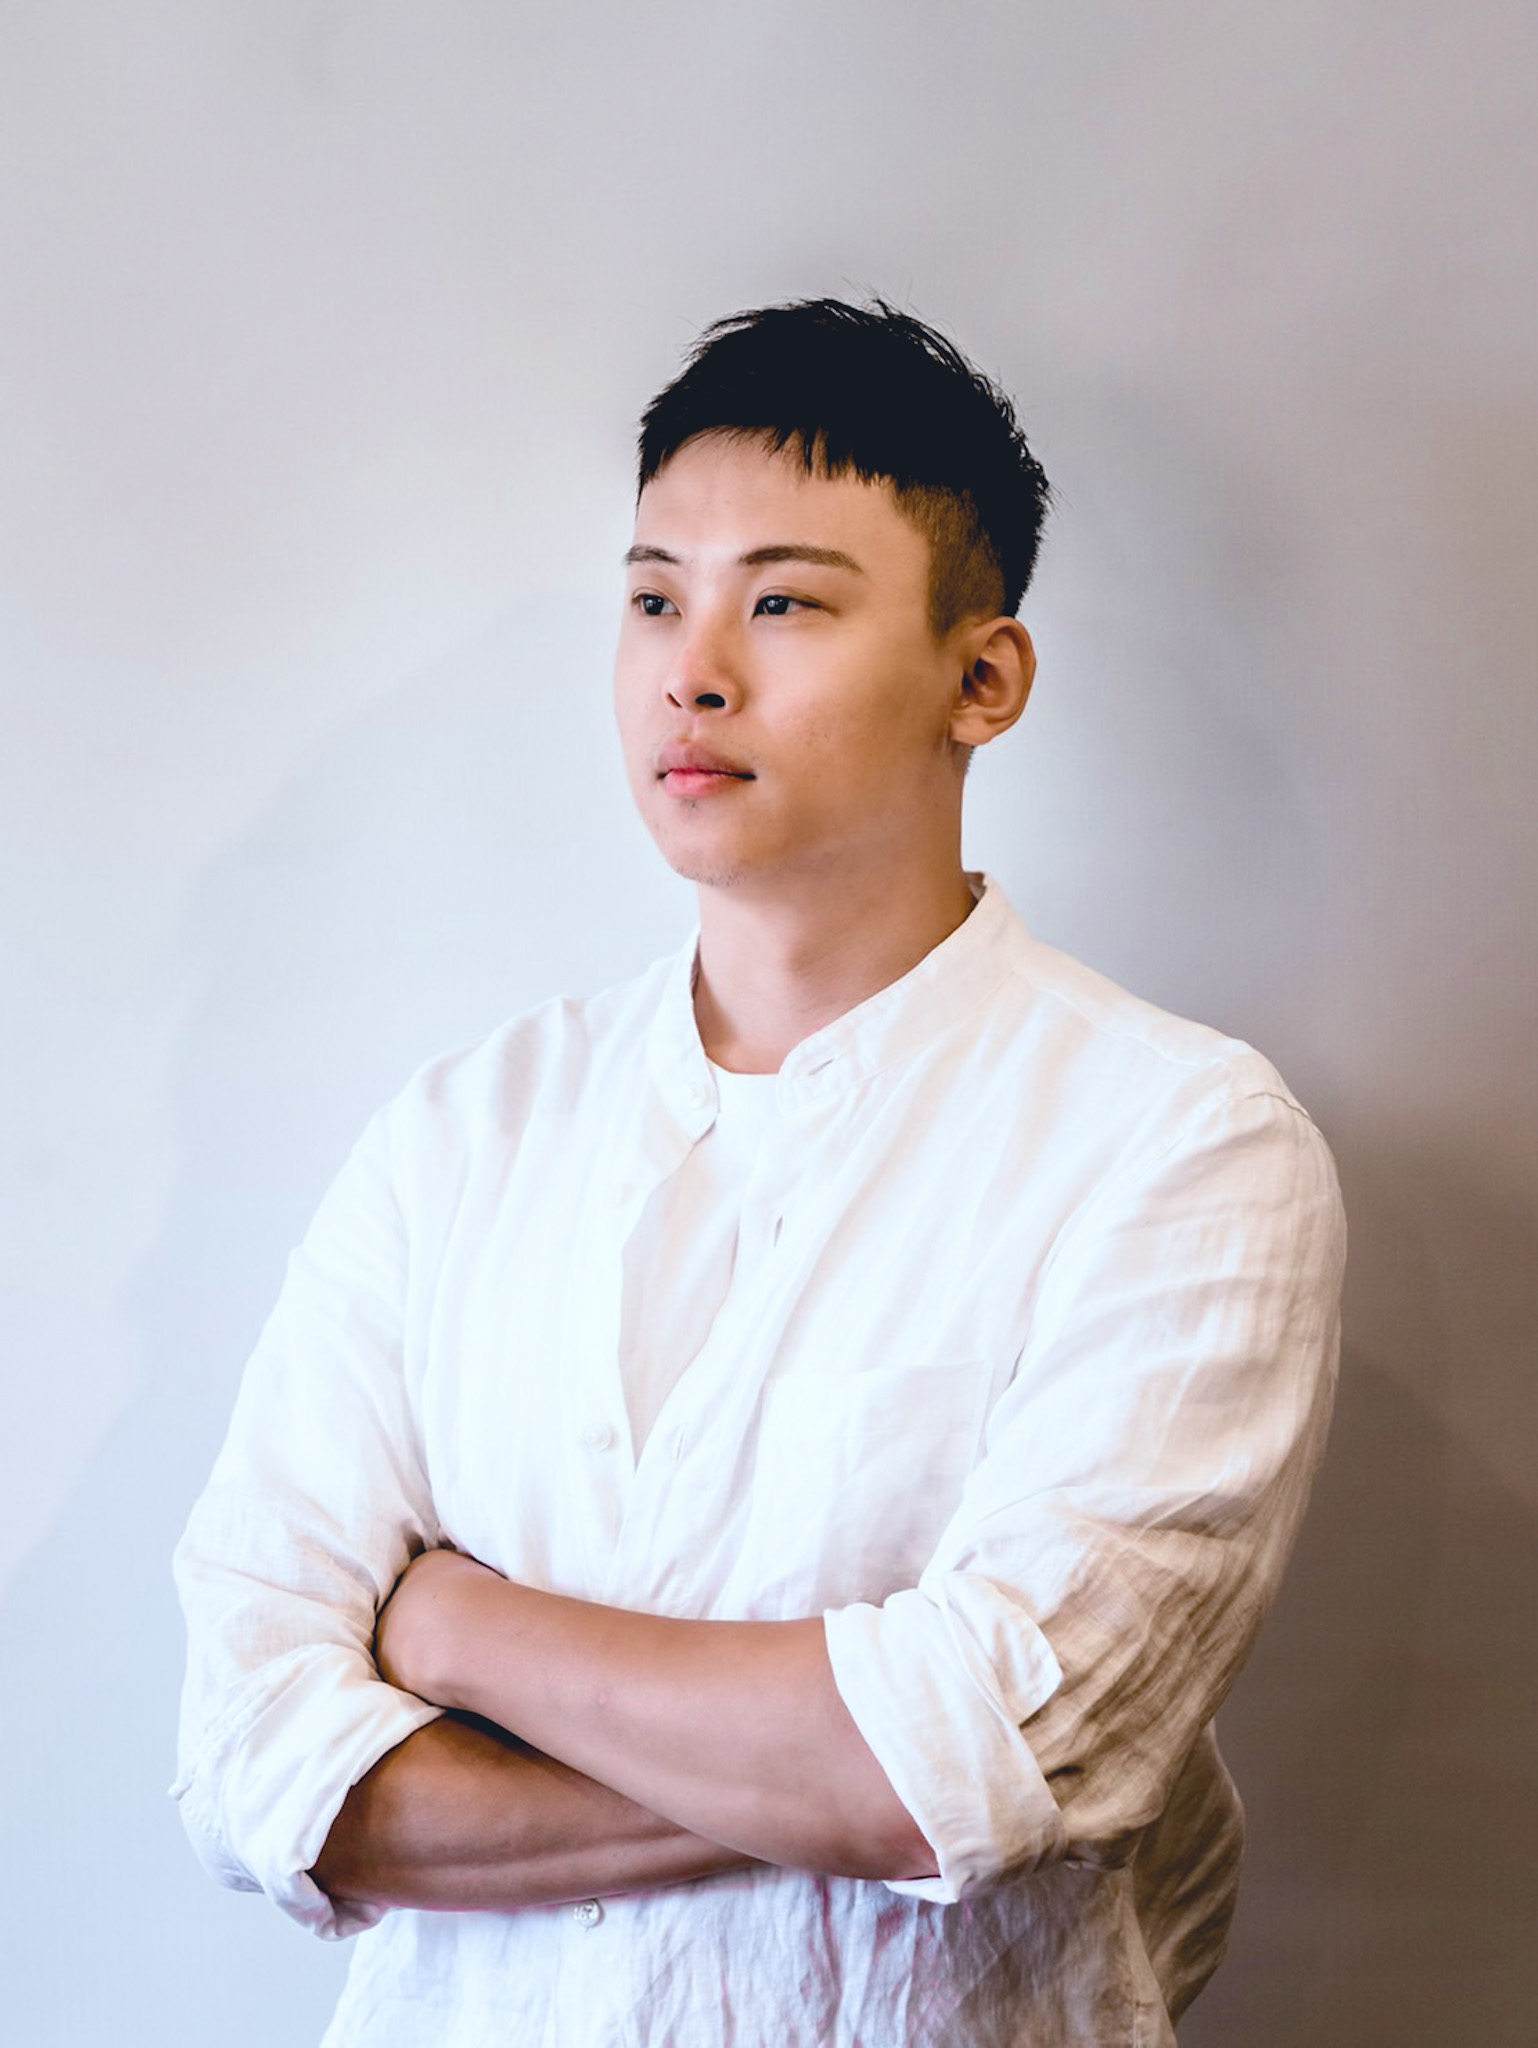
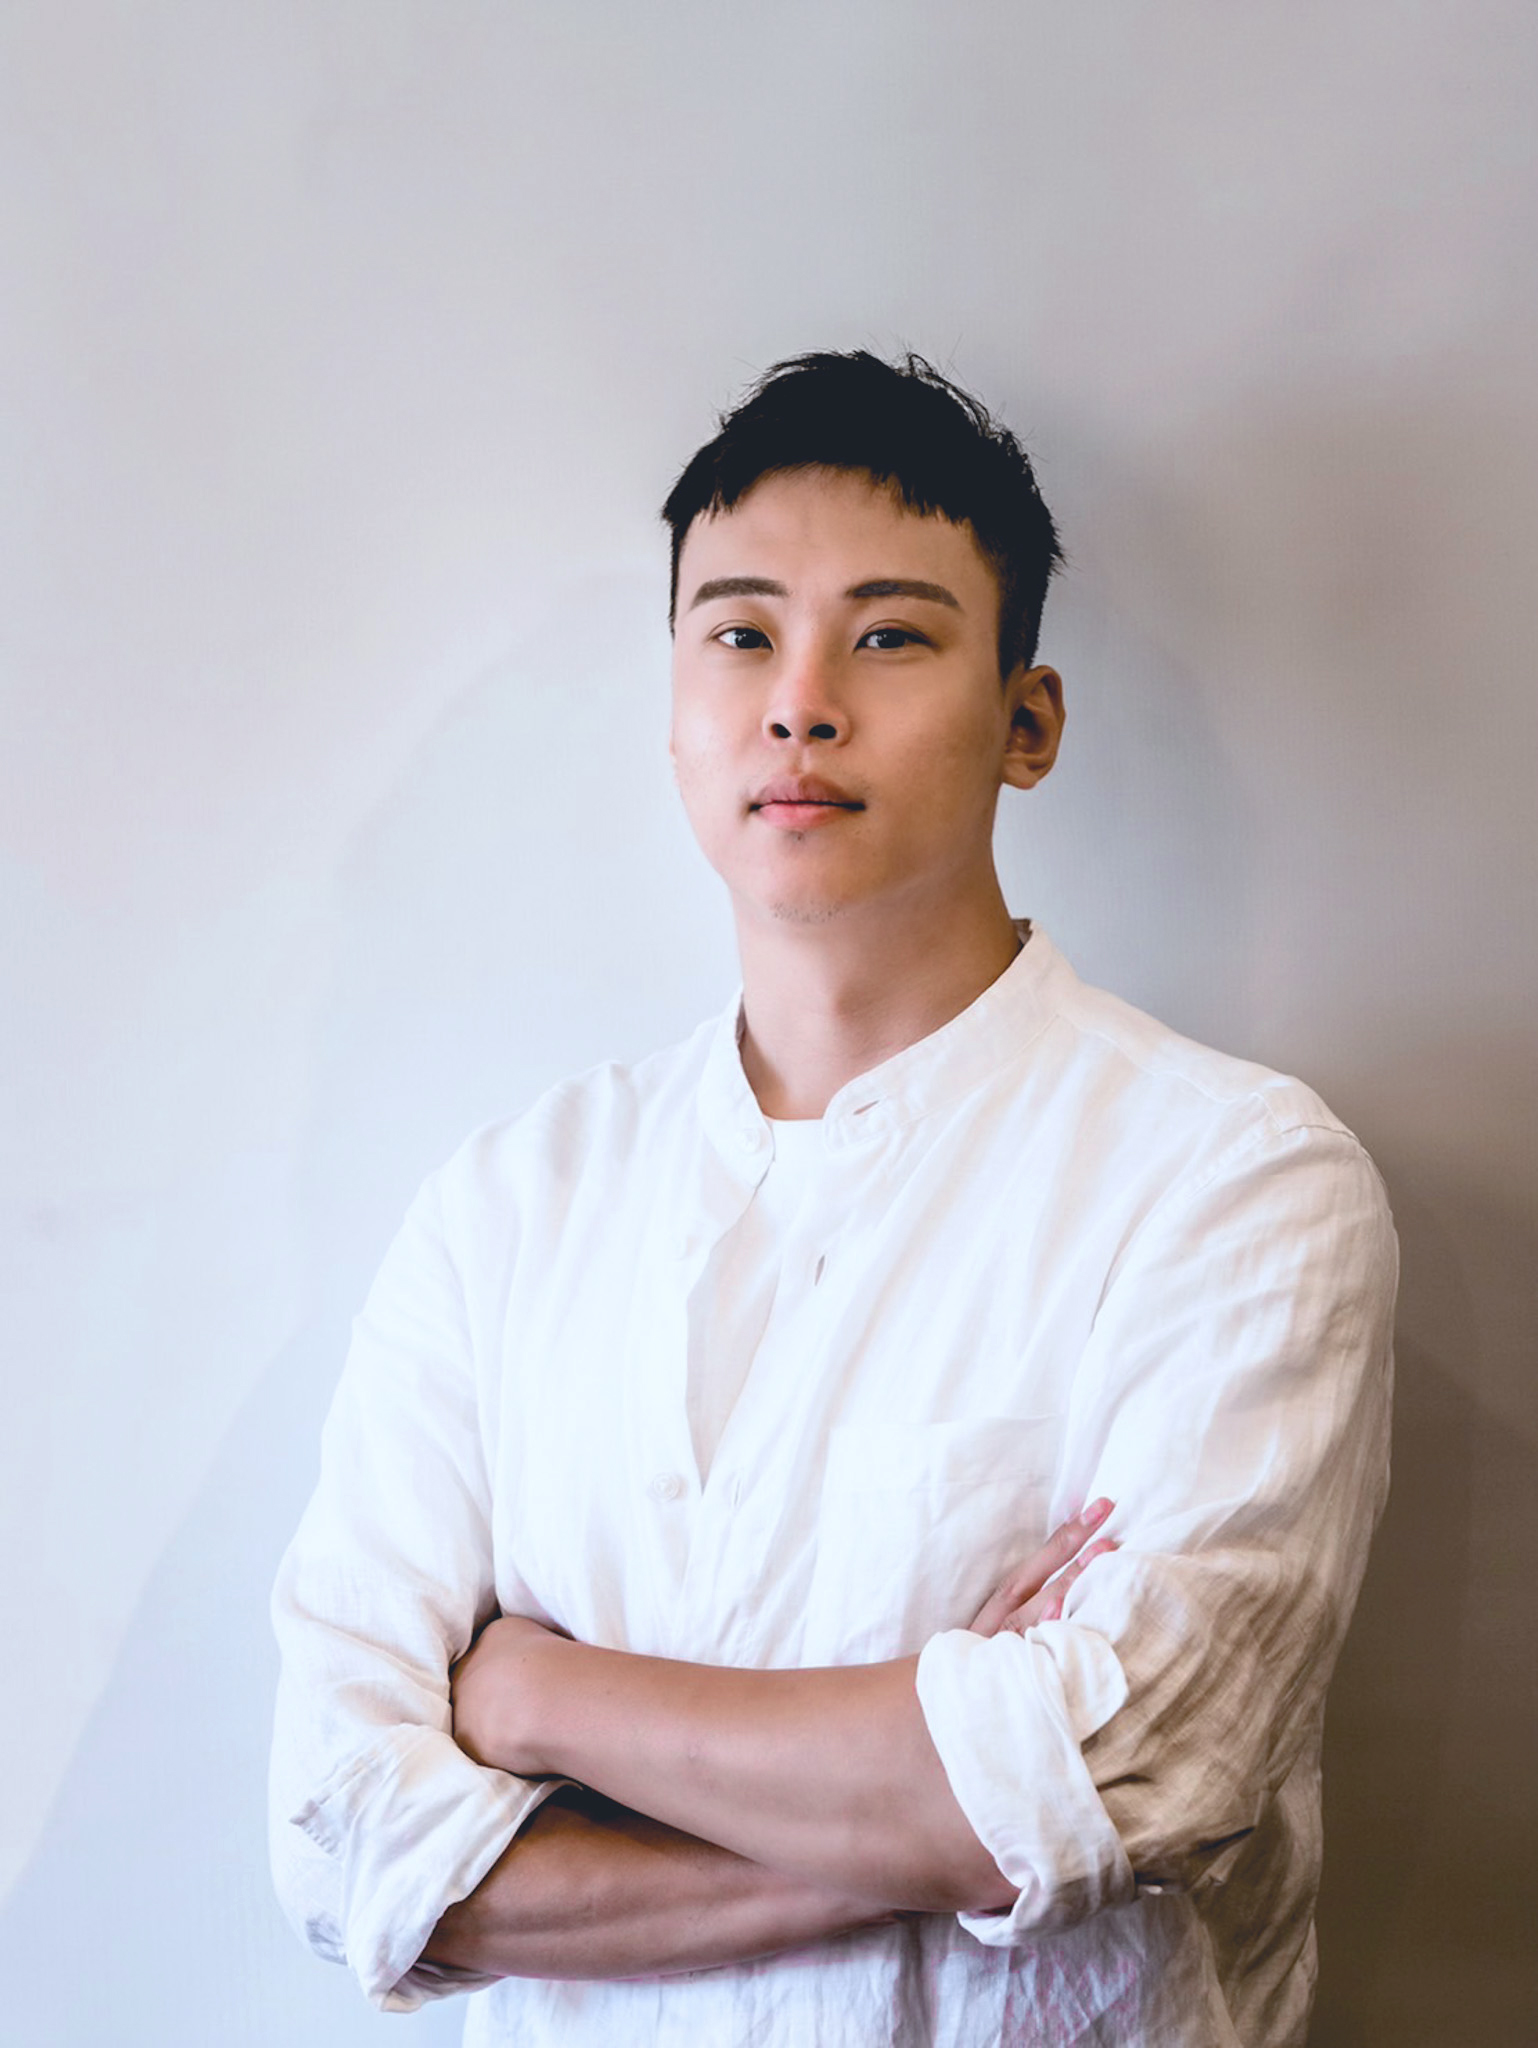
換大頭照

diff --git a/css/style.css b/css/style.css
@@ -8652,13 +8652,19 @@ h1, h2, h3, h4, h5,
   width: 100%;
   height: 550px;
   z-index: 0;
-  position: relative; }
+  position: relative; 
+}
   .ftco-about .img-about .img {
     display: block;
     width: 100%;
     position: relative;
     z-index: 1;
-    border-radius: 160px 0 120px 0; }
+    border-radius: 160px 0 120px 0; 
+}
+  .ftco-about .img-about .img:hover {
+    background-image: url(../images/profile2.jpg)!important;
+}
+
 
 .ftco-about ul.about-info {
   display: inline-block;
@@ -10005,3 +10011,12 @@ span.highlight-color:after {
     font-weight: 800;
     color: #055295;
 }
+
+
+
+
+
+
+
+
+
